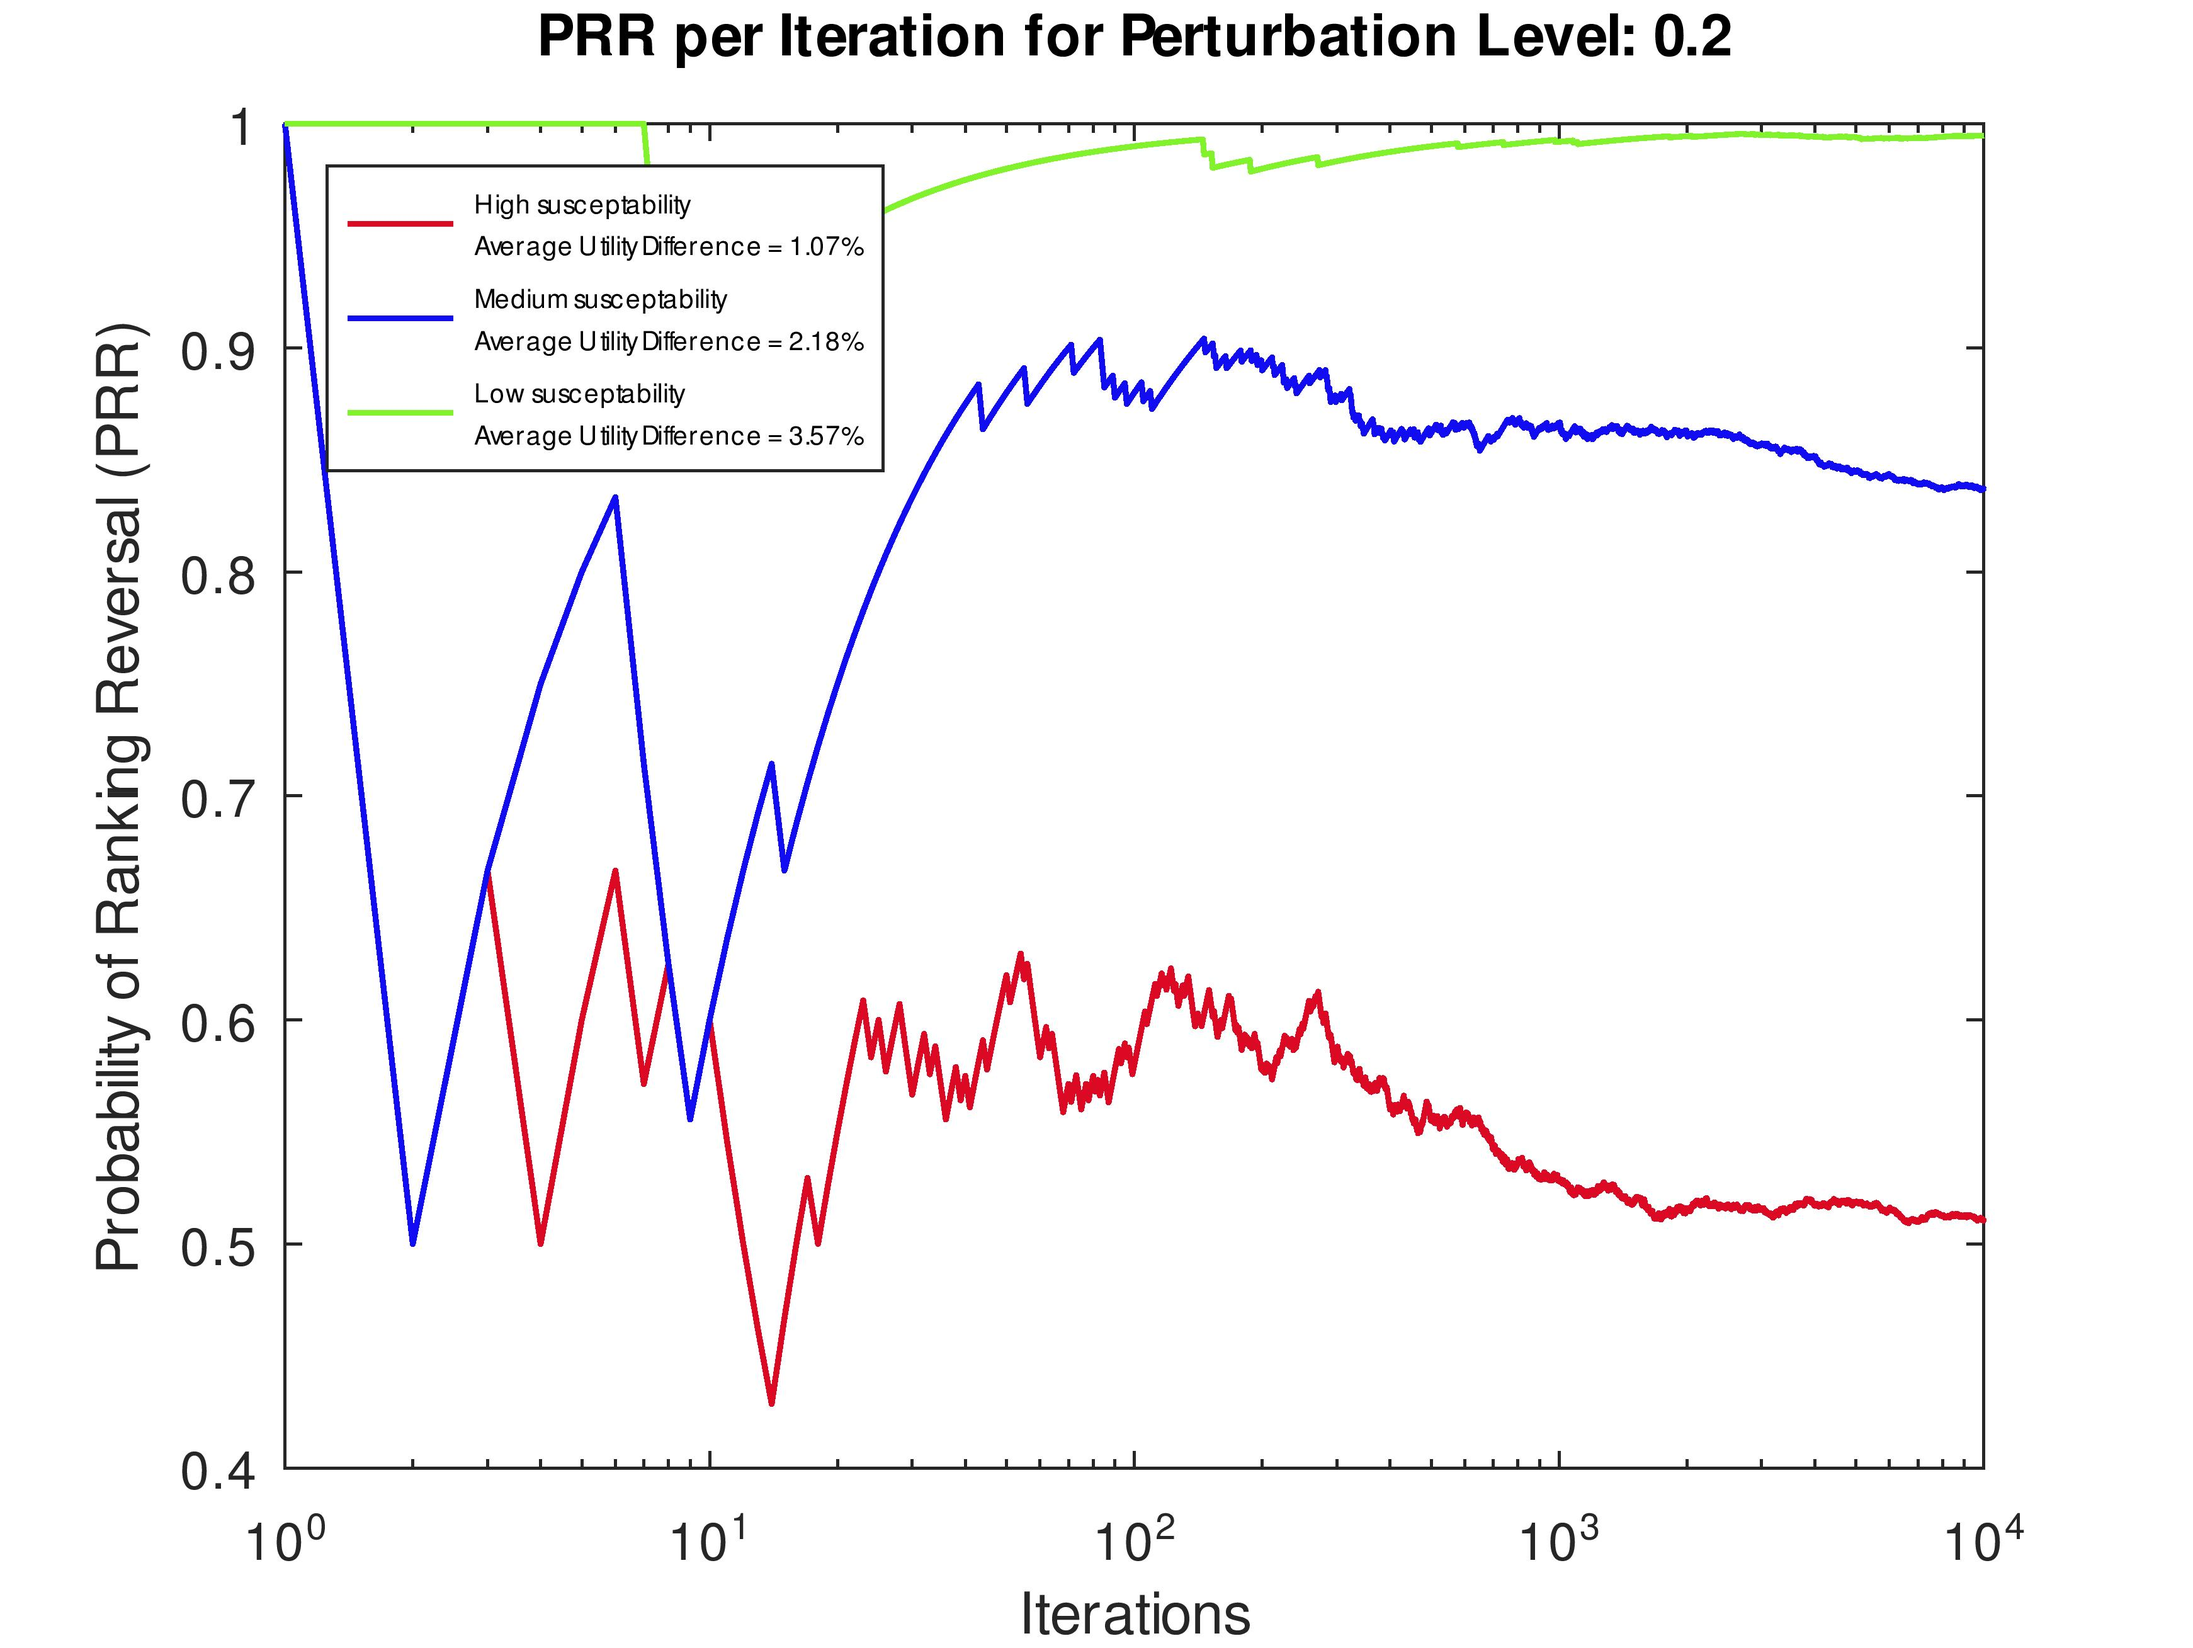
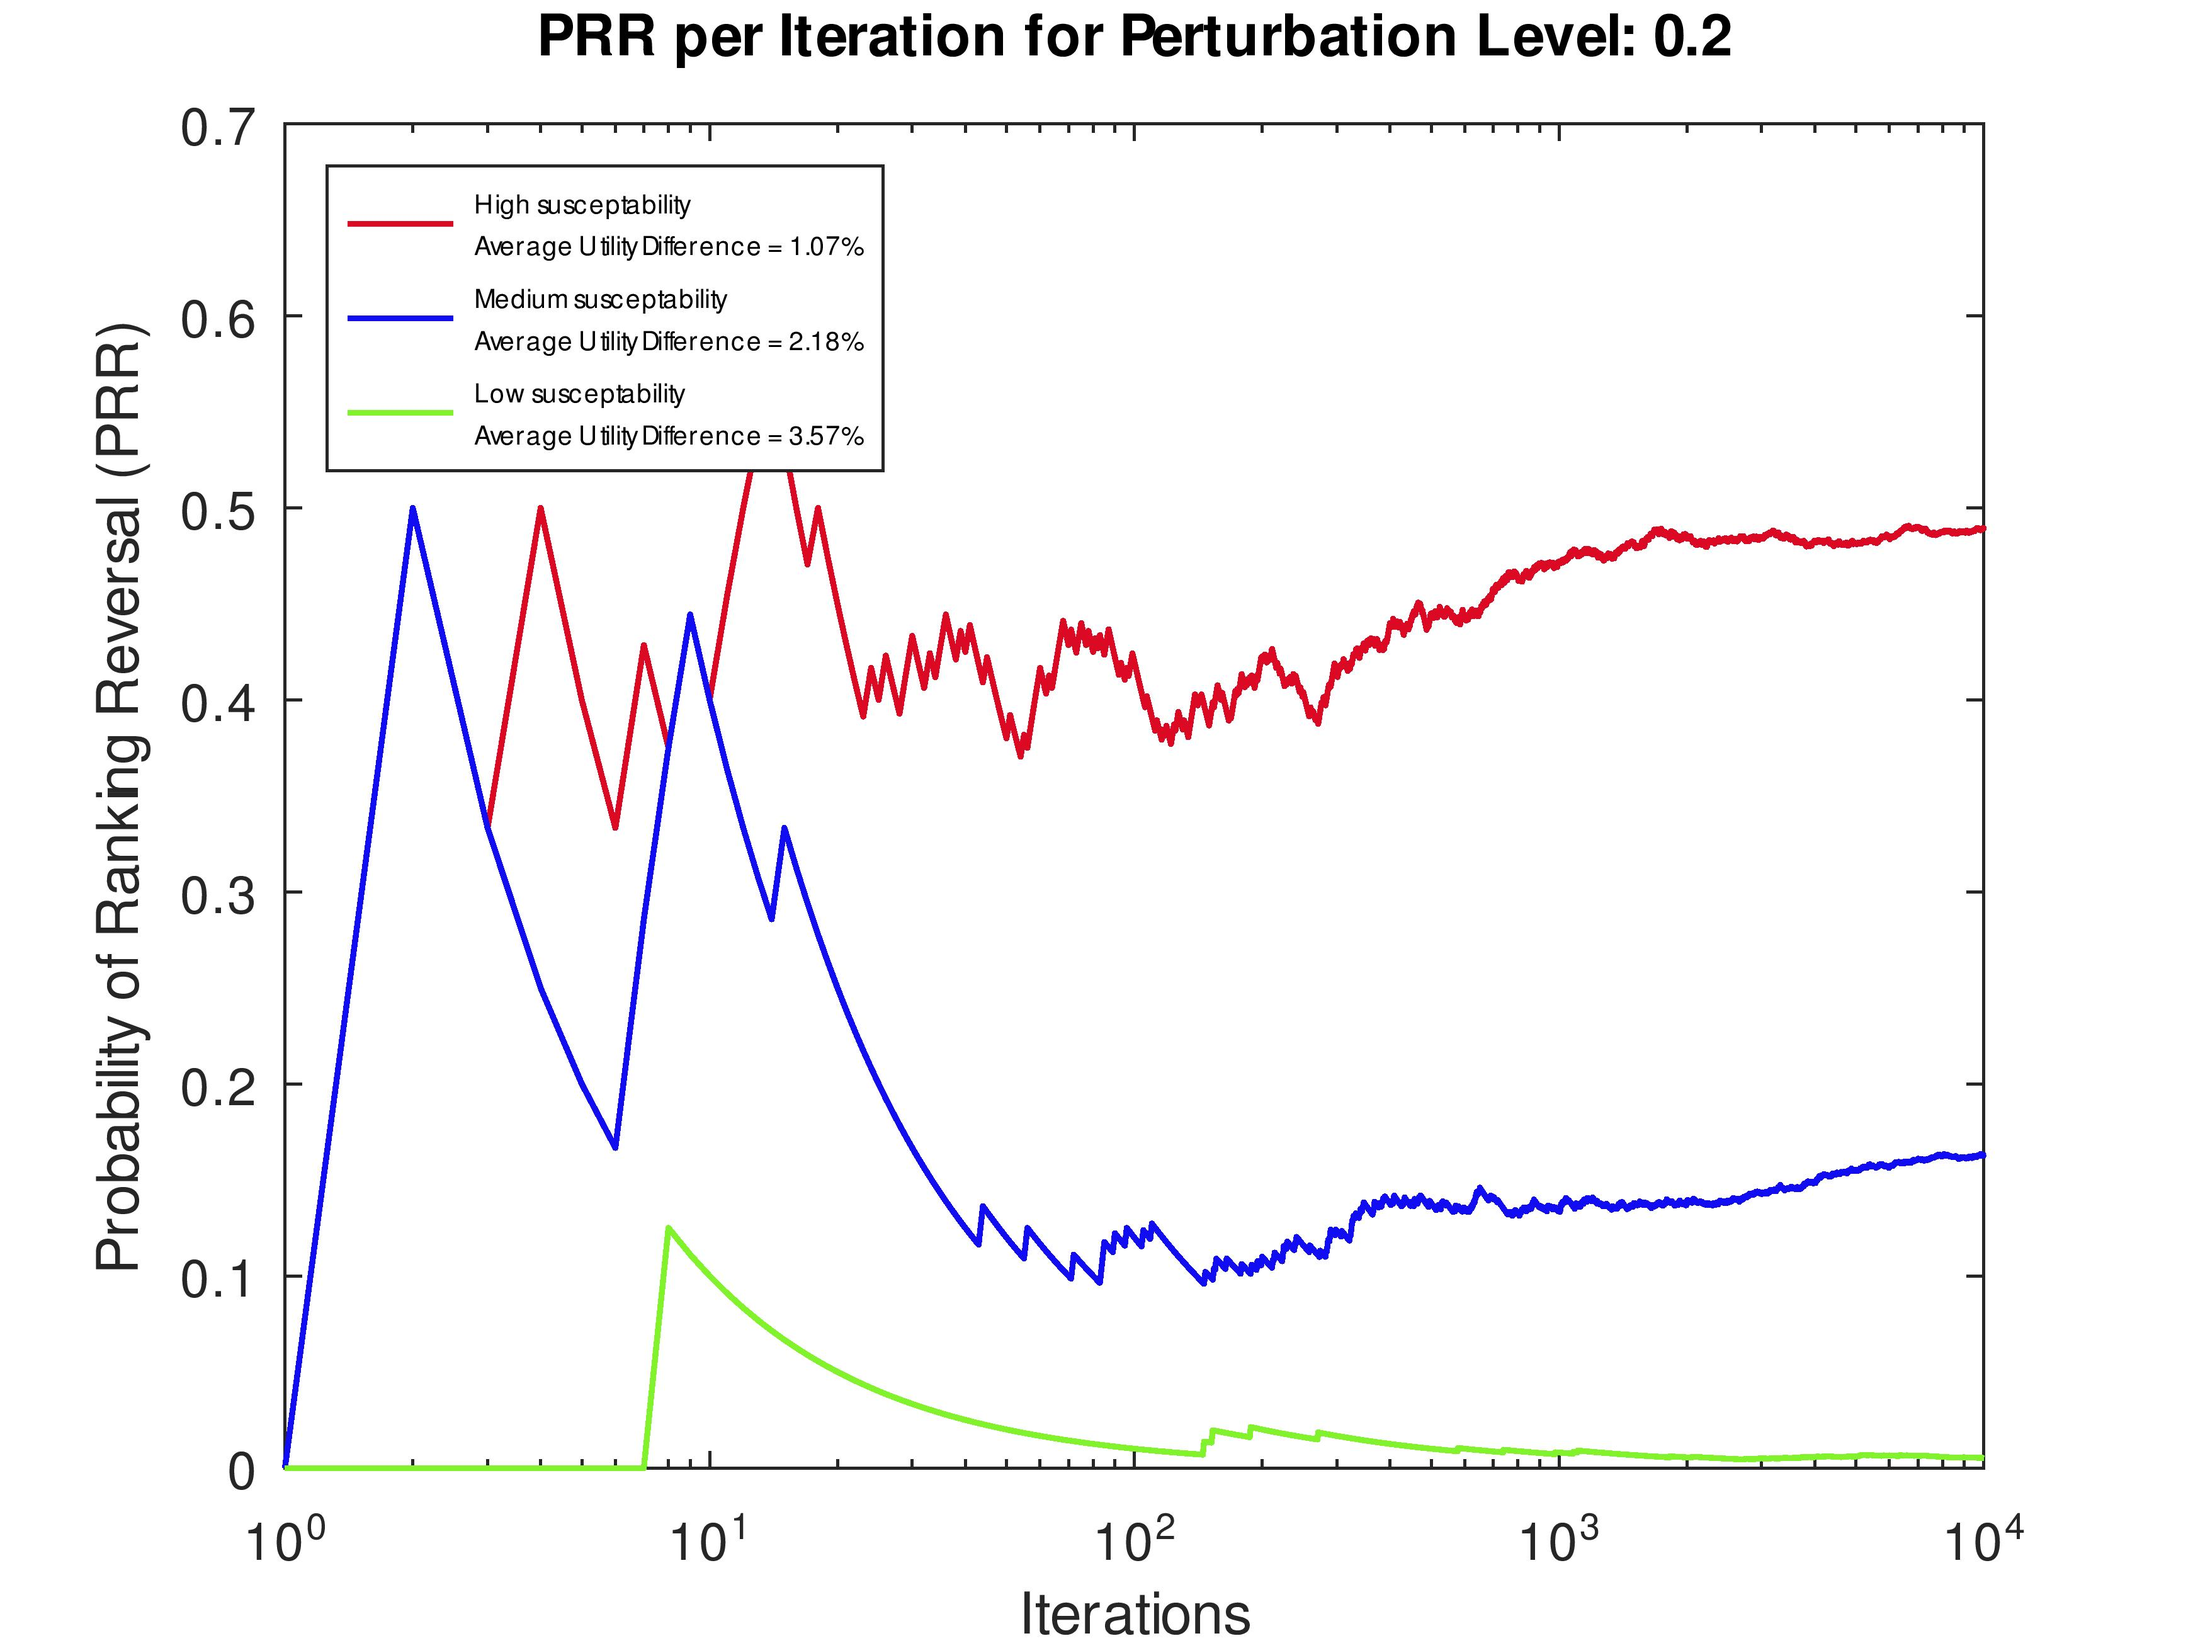
Fixed rankinversion function and the charts

diff --git a/generate_charts.m b/generate_charts.m
@@ -13,29 +13,6 @@ for i = 1:3
     sus_PRR_all(i, :, :) = PRR_all;
     sus_PRR_per_pert(i, :) = PRR_per_pert;
     sus_utility(i, :) = utility;
-    % Generate each line and bar chart individually
-    % [susceptibility_lvl, susceptibility_lvl_full, susceptibility_chart_color] = susceptibility(mean_diff);
-
-    % for si = 1:size(s,1)
-    %     figure;
-    %     semilogx(1:ntimes, PRR_all(si, :), 'LineWidth', 1, 'Color', susceptibility_chart_color);
-    %     xlabel('Iterations');
-    %     ylabel('Probability of Ranking Reversal (PRR)');
-    %     title(['PRR per Iteration for Perturbation Level: ', num2str(s{si}), "\nw/ ", susceptibility_lvl_full]);
-
-    %     print(['./charts/PRR_per_Iteration_PertLvl_', num2str(s{si}), '_', susceptibility_lvl, '.jpg'], '-djpg', "-r400");
-    %     close;
-    % end
-    % disp('The PRR for each perturbation level is:');
-    % disp([s, PRR_per_pert]);
-
-    % figure;
-    % bar(s, PRR_per_pert, 'FaceColor', susceptibility_chart_color);
-    % xlabel('Perturbation Level');
-    % ylabel('Probability of Ranking Reversal (PRR)');
-    % title('PRR for Each Perturbation Level w/ Large utility differences');
-    % print(['./charts/PRR_per_Perturbation_Level_', susceptibility_lvl,'.jpg'], '-djpg', "-r400");
-    % close;
 end
 
 
@@ -60,18 +37,20 @@ for si = 1:size(s,1)
     close;
 end
 
+
 % Combine all bar charts together by pertubation level
 figure;
 b = bar(cell2mat(s), flipud(sus_PRR_per_pert));
-legend([sprintf('Low susceptability\nAverage Utility Difference = '), num2str(sus_mean_diff(3) * 100)(1:4), '%'],
+legend(
+        [sprintf('Low susceptability\nAverage Utility Difference = '), num2str(sus_mean_diff(3) * 100)(1:4), '%'],
         [sprintf('Medium susceptability\nAverage Utility Difference = '), num2str(sus_mean_diff(2) * 100)(1:4), '%'],
         [sprintf('High susceptability\nAverage Utility Difference = '), num2str(sus_mean_diff(1) * 100)(1:4), '%'],
         'FontSize', 5);
 
 %Set the colors of the bars
-for i = 3:-1:1
-    [susceptibility_lvl, susceptibility_lvl_full, susceptibility_chart_color] = susceptibility(sus_mean_diff(i));
-    set(b(4-i), 'FaceColor', susceptibility_chart_color);
+for i = 1:3
+    [susceptibility_lvl, susceptibility_lvl_full, susceptibility_chart_color] = susceptibility(sus_mean_diff(4-i));
+    set(b(i), 'FaceColor', susceptibility_chart_color);
 end
 
 xlabel('Perturbation Level');
@@ -81,7 +60,7 @@ print(['./charts/all_PRR_per_Perturbation_Level.jpg'], '-djpg', "-r600");
 close;
 
 % Generate errorbars for the utility with the added perturbation error for each susceptibility level
-for sus_lvl = 1:3
+for pert_lvl = 1:3
     x = 1:5;
     figure;
     error = zeros(1, size(sus_utility, 2));
@@ -89,10 +68,9 @@ for sus_lvl = 1:3
         [susceptibility_lvl, susceptibility_lvl_full, susceptibility_chart_color] = susceptibility(sus_mean_diff(i));
         for j = 1:5
             % Calculate the error for each alternative
-            error(j) = sus_utility(i, j) * sus_PRR_per_pert(sus_lvl, i) * 0.5;
+            error(j) = sus_utility(i, j) * sus_PRR_per_pert(pert_lvl, 4-i) * 0.5;
         end
 
-        disp(error);
         xv = x + 0.1 * (i - 2);
         eb = errorbar(xv, sus_utility(i, :), error, 'o');
         set(eb, 'MarkerFaceColor', susceptibility_chart_color, 'MarkerSize', 4, 'Color', susceptibility_chart_color);
@@ -105,7 +83,7 @@ for sus_lvl = 1:3
             'Location', 'northwest', 'FontSize', 5);
     xlabel('Alternatives');
     ylabel('Utility');
-    title(['Alternatives Utility with Perturbation Error with Perturbation Level: ', num2str(s{sus_lvl})]);
-    print(['./charts/Alternatives_Utility_PertLvl_', num2str(s{sus_lvl}), '.jpg'], '-djpg', "-r600");
+    title(['Alternatives Utility with Perturbation Error with Perturbation Level: ', num2str(s{4-pert_lvl})]);
+    print(['./charts/Alternatives_Utility_PertLvl_', num2str(s{4-pert_lvl}), '.jpg'], '-djpg', "-r600");
     close;
 end

diff --git a/susceptibility.m b/susceptibility.m
@@ -9,12 +9,12 @@ function [susceptibility_lvl, susceptibility_lvl_full, susceptibility_chart_colo
         susceptibility_lvl = "hs"; 
         susceptibility_lvl_full = "High susceptibility level";
         susceptibility_chart_color = "#dc0925";
-    elseif mean_diff <= 0.025 % <= 2.5% avg difference
+    elseif mean_diff <= 0.03 % <= 3% avg difference
         %medium susceptibility
         susceptibility_lvl = "ms"; 
         susceptibility_lvl_full = "Medium susceptibility level";
         susceptibility_chart_color = "#110cf1";
-    else % > 2.5% avg difference
+    else % > 3% avg difference
         %low susceptibility
         susceptibility_lvl = "ls"; 
         susceptibility_lvl_full = "Low susceptibility level";

diff --git a/rankinversion.m b/rankinversion.m
@@ -4,14 +4,14 @@
 function [N]=rankinversion(S, T)
   	[n] = length(T);
 
-	N = 0;
+	N = 1; % Assume the array is not ranked properly
 	for i = 1:n-1
 		diffS = S(i+1) - S(i);
         diffT = T(i+1) - T(i);
 		if (diffS >= 0 && diffT >= 0) || (diffS <= 0 && diffT <= 0)
-			N = 1;
-		else 
 			N = 0;
+		else 
+			N = 1;
 			break;
 		end
 	end
